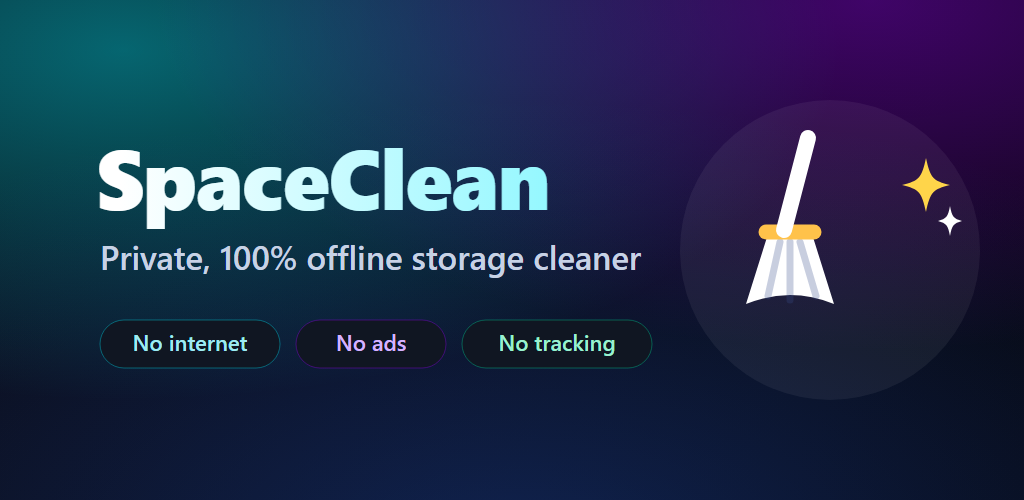
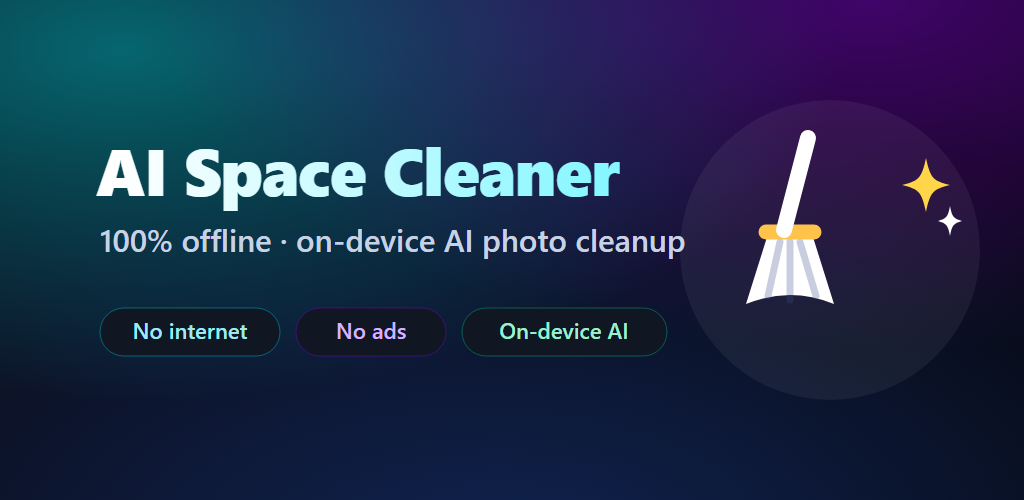
Rename to 'AI Space Cleaner', set paid $1.99, update listing/legal/graphics
- App label + dashboard wordmark → AI Space Cleaner
- Feature graphic regenerated with new name + On-device AI pill
- PLAY_STORE_LISTING/PUBLISHING_GUIDE: name + paid pricing locked, AI-led copy
- Privacy policy + EULA name updated to AI Space Cleaner, AI clause added

Changed region(s): [[0.0938, 0.27, 0.6875, 0.57], [0.0938, 0.6, 0.4375, 0.75], [0.4688, 0.6, 0.6562, 0.75]]

diff --git a/app/src/main/java/io/github/varunkumar/spaceclean/ui/MainScreen.kt b/app/src/main/java/io/github/varunkumar/spaceclean/ui/MainScreen.kt
@@ -637,17 +637,21 @@ private fun DashboardHeader(savedBytes: Long, onTrash: () -> Unit, onSearch: () 
     ) {
         Column(Modifier.weight(1f)) {
             Text(
-                "SpaceClean",
-                style      = MaterialTheme.typography.headlineMedium,
+                "AI Space Cleaner",
+                style      = MaterialTheme.typography.titleLarge,
                 color      = TextPrimary,
                 fontWeight = FontWeight.Black,
+                maxLines   = 1,
+                overflow   = TextOverflow.Ellipsis,
             )
             Text(
-                "OFFLINE  •  PRIVATE",
+                "OFFLINE  •  PRIVATE  •  ON-DEVICE AI",
                 style         = MaterialTheme.typography.labelSmall,
                 color         = ElectricCyan.copy(alpha = 0.6f),
-                letterSpacing = 1.5.sp,
+                letterSpacing = 1.2.sp,
                 fontWeight    = FontWeight.SemiBold,
+                maxLines      = 1,
+                overflow      = TextOverflow.Ellipsis,
             )
         }
 

diff --git a/store/PLAY_STORE_LISTING.md b/store/PLAY_STORE_LISTING.md
@@ -1,4 +1,4 @@
-# Google Play Store Listing — SpaceClean
+# Google Play Store Listing — AI Space Cleaner
 
 Copy/paste-ready text plus the forms you'll fill in Play Console. Character limits noted.
 
@@ -7,32 +7,39 @@ Copy/paste-ready text plus the forms you'll fill in Play Console. Character limi
 ## App title  (max 30 chars)
 
 ```
-SpaceClean: Offline Cleaner
+AI Space Cleaner
 ```
-*(27 chars)*
+*(16 chars)*
 
 ## Short description  (max 80 chars)
 
 ```
-Private, 100% offline storage cleaner. No ads, no internet, no tracking.
+On-device AI photo cleanup + duplicates. 100% offline. No ads, no tracking.
 ```
-*(72 chars)*
+*(74 chars)*
 
 ## Full description  (max 4000 chars)
 
 ```
-SpaceClean is a storage cleaner and file manager built around one principle: your files are
-nobody's business but yours. It works 100% offline — there is literally no internet permission
-in the app, so nothing can ever leave your phone. No ads. No tracking. No accounts.
+AI Space Cleaner is a storage cleaner and file manager built around one principle: your files
+are nobody's business but yours. It works 100% offline — there is literally no internet
+permission in the app, so nothing can ever leave your phone. No ads. No tracking. No accounts.
+Even the AI runs entirely on your device.
 
-Reclaim space in seconds with a clean, modern interface.
+ON-DEVICE AI PHOTO CLEANUP
+A neural network built into the app (no cloud, no upload) looks at your photos and finds the
+junk you'd want gone:
+• Blurry and low-quality shots
+• Near-identical / burst photos — it keeps the best one and flags the rest
+• Screenshots and memes
+You review everything before a single file is deleted. The AI never sends your photos anywhere.
 
-WHAT IT FINDS
-• Photos — duplicate and burst shots, with side-by-side compare
+WHAT ELSE IT FINDS
+• Photos — duplicates and burst shots, with side-by-side compare
 • Videos — large and redundant clips
 • Audio — music and voice notes
-• Documents — PDFs, ZIPs, archives, and more, filterable by type
-• Downloads — leftover APKs, ZIPs and junk
+• Documents — PDFs, ZIPs, archives, filterable by type
+• Downloads & useless files — leftover APKs, ZIPs, GIFs, temp and log junk
 • Largest files — the biggest space hogs across your storage
 • Old & unused — your oldest files, surfaced for review
 • Duplicate files — exact copies across phone storage AND chat apps (e.g. the same photo in
@@ -41,21 +48,21 @@ WHAT IT FINDS
 • App storage — see every app by size and uninstall in a tap
 
 POWERFUL TOOLS
-• Smart Scan All — scan every category at once
-• Social Media Cleaner — clear WhatsApp, Telegram, Messenger, Viber and Signal media, grouped
-  per app with previews
+• Smart Scan — scan every category at once
+• Quick Clean — one tap to review and clear safe junk; you choose which categories in Settings
+• Social Media Cleaner — clear WhatsApp, Telegram, Messenger, Viber and Signal media
 • Scan any folder — point it at any folder (including an SD card) and clean it
-• Global search across everything you've scanned
-• PDF and media previews, sort and filter, multi-select
+• Global search, PDF and media previews, sort and filter, multi-select
 
 SAFE BY DESIGN
-• Deleted media goes to your device's Trash, recoverable for ~30 days
+• Everything you delete goes to a recoverable Trash for about 30 days — photos and videos to
+  your device Trash, other files to the app's own trash — so nothing is lost by accident
 • Clear confirmation before anything is removed
 
 PRIVATE BY DESIGN
 • No internet permission — verifiable, not just a promise
-• No ads, no analytics, no third-party code
-• Everything runs on your device
+• No ads, no analytics, no third-party tracking
+• Everything, including the AI, runs on your device
 
 A one-time purchase. No subscriptions, no in-app purchases, no surprises.
 ```
@@ -65,38 +72,37 @@ A one-time purchase. No subscriptions, no in-app purchases, no surprises.
 ## Store settings
 
 - **App category:** Tools
-- **Tags:** cleaner, file manager, storage, duplicate finder
+- **Tags:** cleaner, file manager, storage, duplicate finder, AI
 - **Content rating:** Everyone (complete the IARC questionnaire — no objectionable content)
-- **Price:** Paid — suggested **$1.99–$2.99** (set under Monetization → set up before first release)
+- **Price:** **Paid — $1.99 USD** (the standard Play price point for "~$2"; you can set exactly
+  $2.00 under Monetization → Products if you prefer the round number). Set this BEFORE the first
+  release. Requires a Play payments/merchant profile.
 - **Contains ads:** No
 - **In-app purchases:** No
 
 ## Privacy policy URL
 
-You must host `PRIVACY_POLICY.md` at a public URL and paste it in Console. Easiest options:
-- **GitHub Pages / Gist** (free) — paste the markdown into a public Gist and use its raw URL, or
-  enable Pages on a repo.
-- **Google Sites** (free) — paste the text into a one-page site.
+Already hosted on your public repo:
+`https://github.com/VarunKumarMup/SpaceClean/blob/main/store/PRIVACY_POLICY.md`
 
 ## Data safety form (Play Console → App content → Data safety)
 
-Answer:
 - **Does your app collect or share any user data?** → **No.**
 - **Is all data encrypted in transit?** → N/A (no data leaves the device).
 - **Do you provide a way to request data deletion?** → N/A (no data collected).
-This yields the strong "No data collected / No data shared" badge.
+Yields the strong "No data collected / No data shared" badge. The on-device AI does **not**
+change this answer — no photo or inference data ever leaves the phone.
 
 ## Permission declarations (Play Console → App content)
 
-You will be prompted to justify these. Suggested text:
-
 **All files access (MANAGE_EXTERNAL_STORAGE):**
 ```
-SpaceClean is a file manager and storage cleaner. Core functionality requires broad access to
-the user's files to scan, preview, and delete photos, videos, documents, downloads, duplicates,
-and leftover folders across the device. Scoped storage / MediaStore alone cannot enumerate and
-remove arbitrary user files (e.g. duplicate files in chat-app folders), which is the app's
-primary purpose. No file data is transmitted off the device — the app has no internet permission.
+AI Space Cleaner is a file manager and storage cleaner. Core functionality requires broad
+access to the user's files to scan, preview, and delete photos, videos, documents, downloads,
+duplicates, and leftover folders across the device. Scoped storage / MediaStore alone cannot
+enumerate and remove arbitrary user files (e.g. duplicate files in chat-app folders), which is
+the app's primary purpose. No file data is transmitted off the device — the app has no internet
+permission, and its AI photo analysis runs entirely on-device.
 ```
 
 **Query all packages (QUERY_ALL_PACKAGES):**
@@ -108,31 +114,31 @@ displayed only on-device and is never transmitted.
 
 ---
 
-## Graphics you still need to create
+## Graphics
 
-| Asset | Spec | Notes |
+| Asset | Spec | Status |
 |---|---|---|
-| App icon | 512×512 PNG (32-bit) | You have a launcher icon; export a 512px store version. |
-| Feature graphic | 1024×500 PNG/JPG | Required. Aurora/glass theme + "100% Offline Cleaner". |
-| Phone screenshots | min 2 (recommend 4–8), 16:9 or 9:16, ≥320px | Dashboard, a file list with previews, Duplicates, App storage. |
-| (Optional) 7"/10" tablet shots | | Only if you target tablets. |
+| App icon | 512×512 PNG | ✅ `store/icon-512.png` |
+| Feature graphic | 1024×500 PNG | ✅ `store/feature-graphic-1024x500.png` |
+| Phone screenshots | min 2 (recommend 4–8), ≥320px | ⏳ Capture on device — include the AI Photo Cleanup screen |
 
-Tip: take screenshots from the **release** build on a device/emulator so they reflect the
-final UI (aurora + glass).
+Take screenshots from the **release** build so they reflect the final UI, and be sure one shows
+the **AI Photo Cleanup** screen (it's the headline feature and justifies the "AI" name).
 
 ---
 
 ## Pre-launch checklist
 
-- [ ] Host privacy policy; add URL in Console
-- [ ] Create a Play Console account ($25 one-time) and a new app
-- [ ] Upload `app-release.aab` (Play App Signing: accept Google-managed signing)
-- [ ] Complete Data safety = "No data collected"
-- [ ] Submit All-files-access + Query-all-packages declarations
-- [ ] Content rating questionnaire → Everyone
-- [ ] Set countries + price (Paid)
-- [ ] Add title, descriptions, graphics, screenshots
-- [ ] **Smoke-test the signed release APK on a real device** (R8 can change runtime behavior):
-      verify scanning, a delete-to-Trash, an uninstall, and PDF previews all work
-- [ ] Roll out to Internal testing first, then Production
+- [ ] Privacy policy URL added in Console (GitHub URL above)
+- [ ] Play Console account ($25) + **payments/merchant profile** (required for paid apps)
+- [ ] New app created — title **AI Space Cleaner**, **Paid**
+- [ ] Upload `app-release.aab` (accept Google-managed Play App Signing)
+- [ ] Data safety = "No data collected"
+- [ ] All-files-access + Query-all-packages declarations submitted (+ demo video ready)
+- [ ] Content rating → Everyone
+- [ ] Price $1.99 (or $2.00) + all countries selected
+- [ ] Title, descriptions, icon, feature graphic, screenshots uploaded
+- [ ] **Smoke-test the signed release on a real device** — scan, AI Photo Cleanup, a
+      delete-to-Trash + restore, an uninstall, PDF previews
+- [ ] Internal testing first, then promote to Production
 ```

diff --git a/store/PUBLISHING_GUIDE.md b/store/PUBLISHING_GUIDE.md
@@ -7,11 +7,14 @@ first-time publisher. Do the sections in order.
 
 ## 0. Before you touch the Play Console
 
-- [ ] **Decide the app name** (see "App name & the 'AI' question" below).
-- [ ] **Decide Free vs Paid** (see "Pricing" below). This changes whether you need a
-      payments profile.
-- [ ] **Check the name isn't taken** — search the Play Store for your chosen name. If an
-      existing app owns it (especially a trademarked one), pick another to avoid a takedown.
+**Decisions locked in:** app name **"AI Space Cleaner"**, **Paid at $1.99 USD** (the standard
+"~$2" price point — set exactly $2.00 if you prefer). The name is honest because the app has a
+real, central on-device AI feature (AI Photo Cleanup).
+
+- [ ] **Check the name isn't taken** — search the Play Store for "AI Space Cleaner". "AI ...
+      Cleaner" is a crowded space; if an existing app (especially a trademarked one) owns the
+      exact name, tweak it (e.g. add a word) to avoid a takedown.
+- [ ] Because it's **Paid**, set up the payments/merchant profile early (see step 1).
 - [ ] Have the two hosted legal URLs ready (already live on your public GitHub):
   - Privacy Policy: `https://github.com/VarunKumarMup/SpaceClean/blob/main/store/PRIVACY_POLICY.md`
   - Terms/EULA: `https://github.com/VarunKumarMup/SpaceClean/blob/main/store/TERMS_OF_USE.md`
@@ -31,19 +34,19 @@ step must be done by you personally.
    a government ID and a D-U-N-S-style check). **This can take a few days — start it early.**
 5. Accept the Developer Distribution Agreement.
 
-> If you chose **Paid** (step 0), you must also set up a **Payments/merchant profile**
-> (Console → Setup → Payments profile) with tax and bank info before you can publish a paid
-> app. If you chose **Free**, you can skip this entirely.
+> **This app is Paid, so you MUST set up a Payments/merchant profile** (Console → Setup →
+> Payments profile) with tax and bank info before you can publish. This is often the slowest
+> part (tax forms + bank verification) — start it right after account setup.
 
 ---
 
 ## 2. Create the app
 
 Console → **Create app**:
-- App name: your chosen title (≤ 30 chars)
+- App name: **AI Space Cleaner**
 - Default language: English (United States)
 - App or game: **App**
-- Free or paid: your choice from step 0
+- Free or paid: **Paid**
 - Tick the two declarations (developer program policies, US export laws)
 
 ---
@@ -161,27 +164,22 @@ First production review can take a few days (longer with all-files access).
 
 ---
 
-## App name & the "AI" question
+## App name — "AI Space Cleaner" (resolved)
 
-Naming the app "AI ..." when it contains no AI/ML is a **Google Play Misrepresentation policy
-violation** and risks rejection or later removal — and "AI Cleaner" is a heavily
-spam-flagged, clone-saturated category. The app's matching (perceptual + content hashing) is
-clever but algorithmic, not AI. Safer, still-marketable directions:
+This name is now **honest and policy-safe** because the app ships a real, central on-device AI
+feature — **AI Photo Cleanup**, a bundled neural network (TensorFlow Lite) that finds blurry,
+near-duplicate, and screenshot photos entirely on-device. Make sure a screenshot of that screen
+is in your listing so the "AI" claim is visibly backed by the product (Google's reviewers check
+that "AI" in a title corresponds to a genuine feature). Keep the AI feature working in every
+release so the name stays truthful.
 
-- **Smart Space Cleaner — Offline** (keyword-rich, honest)
-- **SpaceClean** (keep it)
-- **Cleanup: Space & Duplicates**
+## Pricing — Paid $1.99 (resolved)
 
-If you genuinely want "AI" in the name, the honest path is to add a real on-device ML feature
-first (e.g. an on-device model for blurry/screenshot/meme classification) — a separate build.
-
-## Pricing
-
-Your goal was "most downloads as fast as possible." That points to **Free** — a paid app
-typically gets 10–50× fewer installs, and free also removes the payments-profile setup.
-Recommended launch: **Free**, optionally adding a paid "Pro" upgrade later once you have
-users. If you want revenue from day one instead, **$0.99–$1.99** is the usual floor, at a
-large cost to install numbers.
+Set to **$1.99 USD** (the conventional "~$2" price; set exactly $2.00 under Monetization if you
+want the round number). Reality check so you're not surprised: a paid app gets far fewer installs
+than a free one, and Google requires a payments/merchant profile before you can publish. If
+downloads stall, the usual playbook is to switch to **Free with a paid "Pro" upgrade** later —
+say the word and I'll add the in-app-purchase plumbing.
 
 ---
 

diff --git a/store/PRIVACY_POLICY.md b/store/PRIVACY_POLICY.md
@@ -1,19 +1,19 @@
-# Privacy Policy — SpaceClean
+# Privacy Policy — AI Space Cleaner
 
 **Effective date:** 29 June 2026
-**App:** SpaceClean (`io.github.varunkumar.spaceclean`)
+**App:** AI Space Cleaner (`io.github.varunkumar.spaceclean`)
 **Developer contact:** varunkumarmuppuri@gmail.com
 
 ## Summary
 
-SpaceClean is a **100% offline** storage cleaner and file manager. It **does not collect,
+AI Space Cleaner is a **100% offline** storage cleaner and file manager. It **does not collect,
 transmit, sell, or share any personal data**. Everything the app does happens **entirely on
 your device**. The app contains **no internet permission**, no advertising, no analytics, and
 no third‑party SDKs — so there is no technical means by which your data could leave your phone.
 
 ## Data we collect
 
-**None.** SpaceClean does not collect or transmit any personal or device information. It has no
+**None.** AI Space Cleaner does not collect or transmit any personal or device information. It has no
 servers, no accounts, and no network code.
 
 The app reads your files, media, and the list of installed apps **only on your device and only
@@ -34,8 +34,10 @@ The app intentionally **does not request the INTERNET permission.**
 
 ## How your data is used
 
-All scanning, previewing, hashing (for duplicate detection), and deletion happens locally on
-your device. Deleted files are moved to a recoverable Trash for about 30 days: photos, videos and
+All scanning, previewing, hashing (for duplicate detection), **AI photo analysis**, and
+deletion happens locally on your device. The AI Photo Cleanup feature uses a machine-learning
+model bundled inside the app; it analyzes your photos entirely on-device and never uploads any
+photo, image data, or analysis result — the app has no internet permission at all. Deleted files are moved to a recoverable Trash for about 30 days: photos, videos and
 audio use your device's own system Trash (via your Files/Photos app), and other files use a private
 trash folder inside the app's own storage. You can restore or permanently remove them at any time
 from Settings → Recently Deleted. Only empty leftover folders are removed directly. No file content
@@ -47,7 +49,7 @@ We do not share any data with anyone, because no data is collected or leaves you
 
 ## Children's privacy
 
-SpaceClean does not collect data from anyone, including children. It is suitable for all ages.
+AI Space Cleaner does not collect data from anyone, including children. It is suitable for all ages.
 
 ## Security
 

diff --git a/store/TERMS_OF_USE.md b/store/TERMS_OF_USE.md
@@ -1,10 +1,10 @@
-# End-User License Agreement & Terms of Use — SpaceClean
+# End-User License Agreement & Terms of Use — AI Space Cleaner
 
 **Effective date:** 20 July 2026
-**App:** SpaceClean (`io.github.varunkumar.spaceclean`)
+**App:** AI Space Cleaner (`io.github.varunkumar.spaceclean`)
 **Developer:** Varun Kumar Muppuri · varunkumarmuppuri@gmail.com
 
-By downloading, purchasing, or using SpaceClean ("the App"), you agree to this End-User
+By downloading, purchasing, or using AI Space Cleaner ("the App"), you agree to this End-User
 License Agreement ("Agreement"). If you do not agree, do not use the App.
 
 ## 1. License
@@ -21,7 +21,11 @@ and policies apply.
 ## 3. What the App does
 The App scans your device's on-device storage to help you find and delete unwanted files
 (duplicates, similar photos, large/old files, downloads, app-related media, leftover folders)
-and to uninstall apps you select. **All processing happens entirely on your device.**
+and to uninstall apps you select. It includes an **AI Photo Cleanup** feature that uses a
+machine-learning model bundled in the App to identify blurry, near-duplicate, and screenshot
+photos. **All processing, including the AI analysis, happens entirely on your device**, and the
+App has no internet permission. AI suggestions may be imprecise — you review and confirm every
+deletion, and the App is not liable for items you choose to delete (see sections 4, 7 and 8).
 
 ## 4. Deletion, Trash, and your responsibility
 - **You choose what to delete.** The App only removes items you confirm.

diff --git a/README.md b/README.md
@@ -1,10 +1,15 @@
-# SpaceClean 🧹
+# AI Space Cleaner 🧹
 
-A premium, **100% offline** Android storage cleaner. No internet permission, no ads, no
-analytics, no accounts — your files and scan results never leave your device, because
-there is no network code to send them.
+A premium, **100% offline** Android storage cleaner with **on-device AI**. No internet
+permission, no ads, no analytics, no accounts — your files and scan results never leave your
+device, because there is no network code to send them. Even the AI runs entirely on the phone.
+
+*(Project/package codename: `spaceclean` / `io.github.varunkumar.spaceclean`.)*
 
 ## Features
+
+- **AI Photo Cleanup (on-device)** — a bundled neural network (TensorFlow Lite) finds blurry,
+  near-duplicate, and screenshot photos with zero network access; you review before deleting.
 
 - **Smart Scan** — 12 categories scanned in one tap: photos, videos, apps, documents,
   audio, downloads, chat media, leftover folders, useless files, largest, old & unused,
